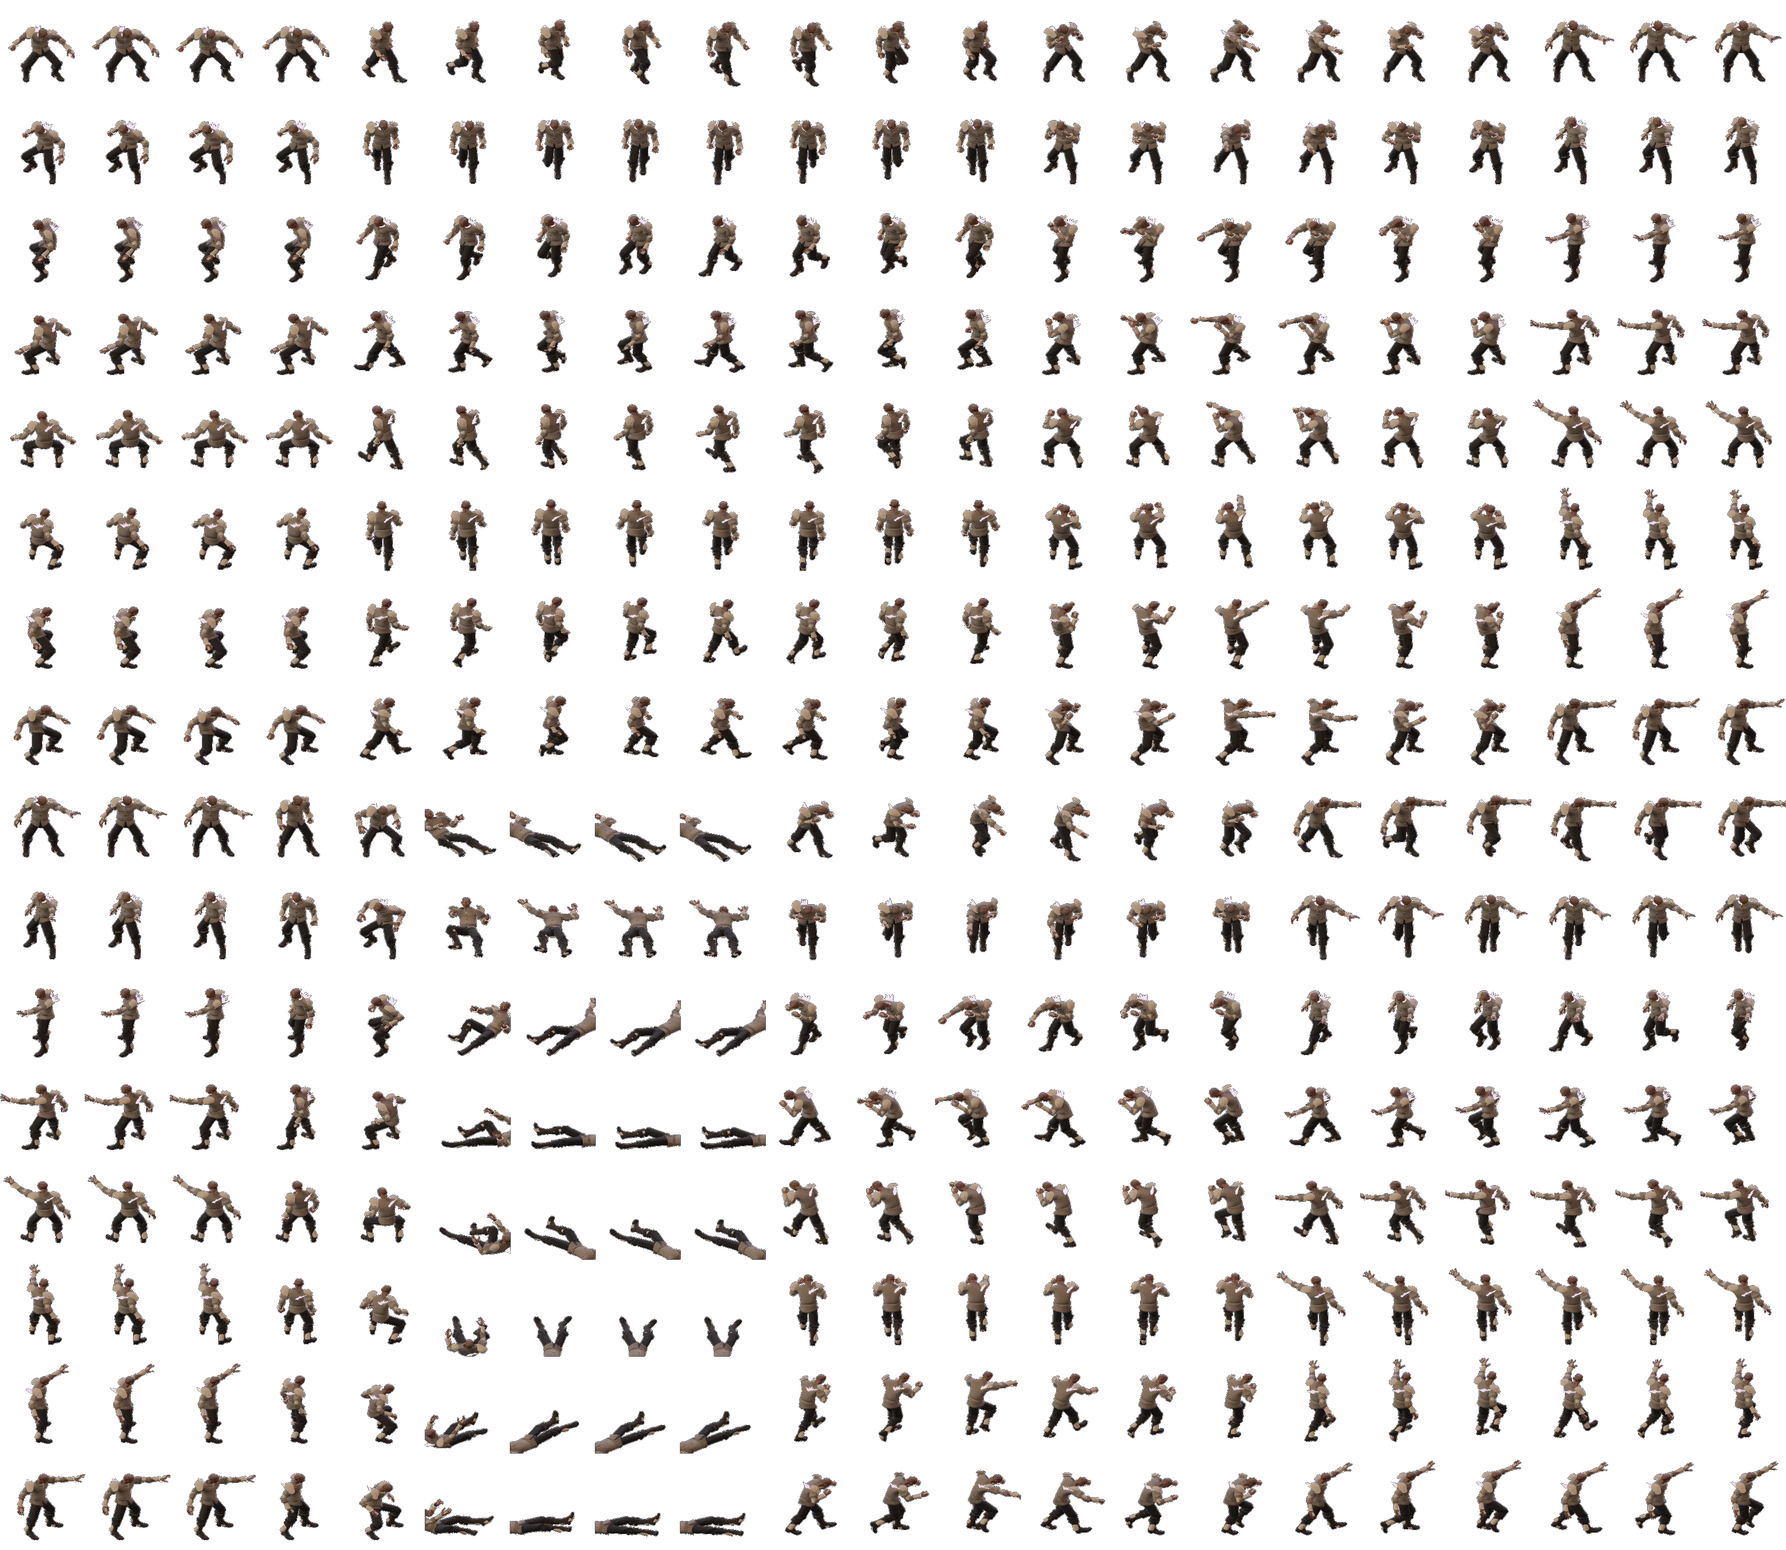
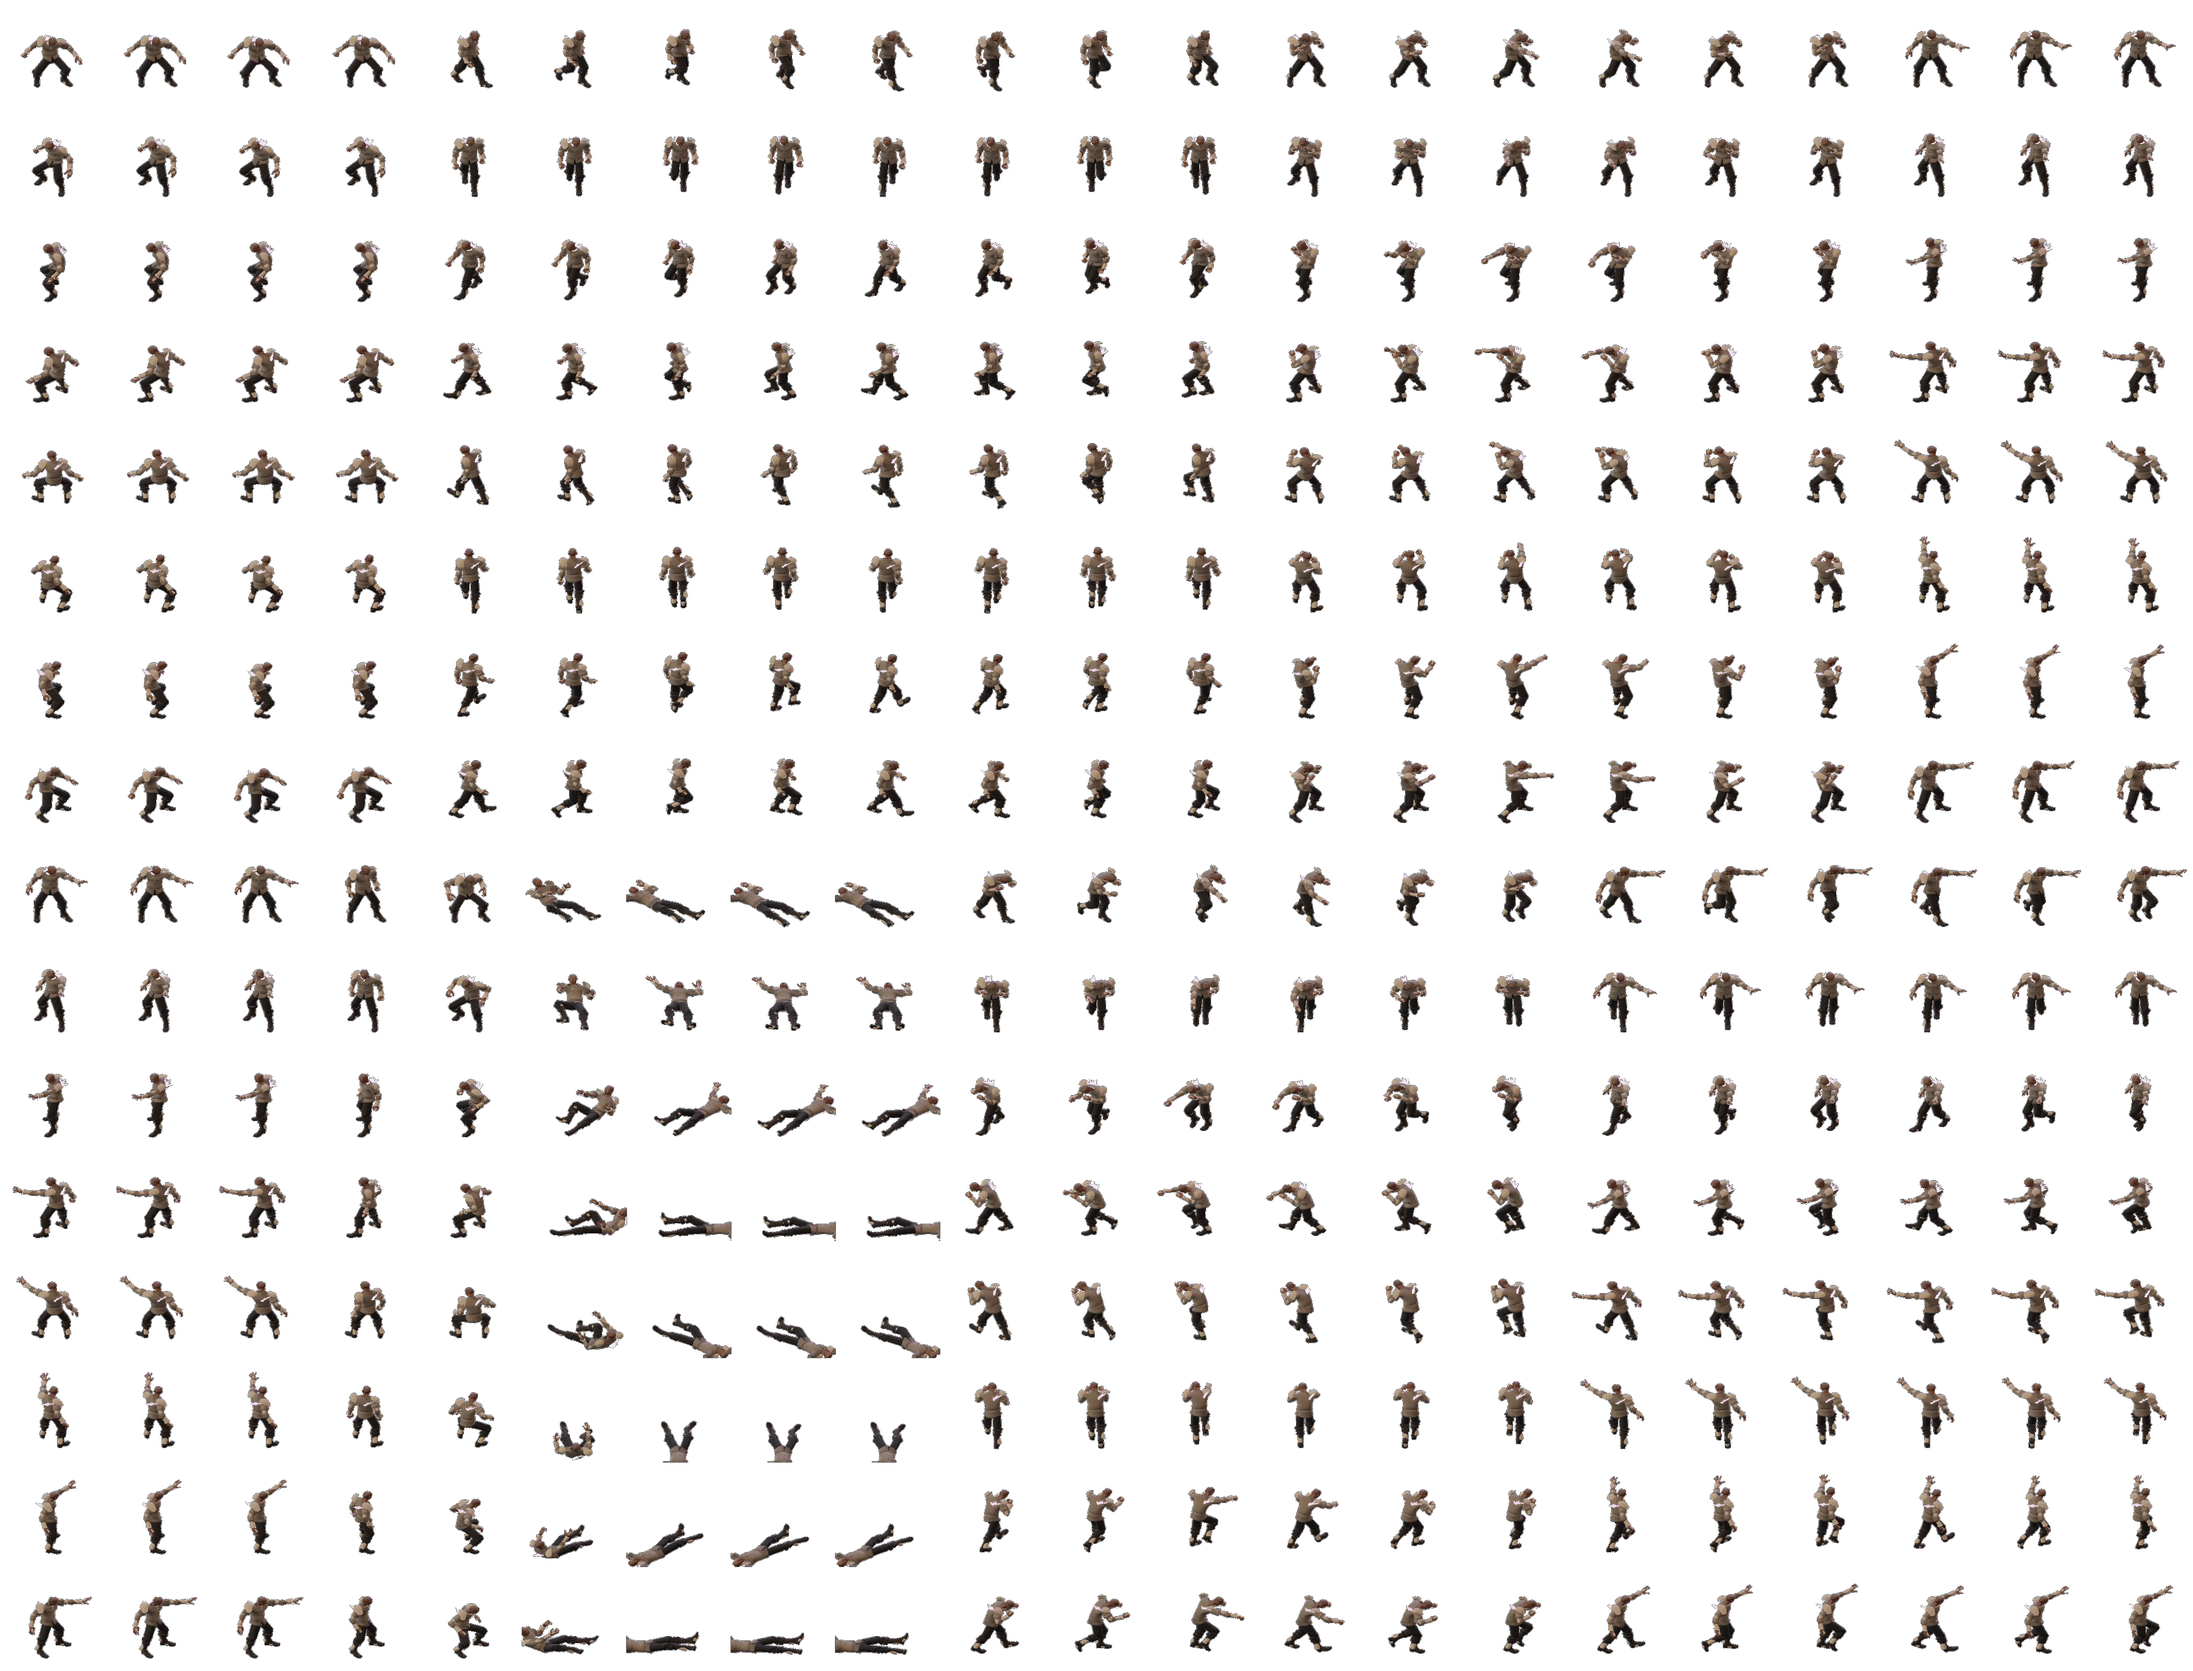
Criaturas de Filo: quadros sem corte, atlas até 4096 px e o monstruário leve (marco 45, D-181)
- Quadros maiores para os dragões, a Mãe-Colmeia, o Enxame e os humanoides de cajado ou lâmina compridos, que
  saíam pelas bordas nos golpes; o atlas dos inimigos baixa os pixels por célula para não passar de 4096 px.
- O monstruário só carrega o desenho das criaturas já vistas (a silhueta não pede atlas).
- O teste dos dragões segue os atlas novos; sem a seta no comentário do kit (teste sem emoji).

diff --git a/src/render/vivos/filo/humanos.ts b/src/render/vivos/filo/humanos.ts
@@ -28,50 +28,53 @@ export interface HumanoDeFilo {
 
 const GRANDE = { largura: 1.9, altura: 2.2, baixo: 0.45 };
 const ALTO = { largura: 2.2, altura: 2.5, baixo: 0.5 };
+/** 16/11/2026: os de cajado ou lâmina compridos, que saíam pelas bordas do quadro nos golpes. */
+const LARGO = { largura: 2.6, altura: 2.5, baixo: 0.5 };
+const ENORME = { largura: 2.9, altura: 2.9, baixo: 0.6 };
 
 export const HUMANOS_FILO: Readonly<Record<string, HumanoDeFilo>> = {
   // Ignárea
   fagulheiro: { traje: 'campones_m', altura: 0.82, pele: 0x7a3a22, roupa: 0x5a4434, emissao: 1.2, jeito: 'espada', veste: A.fagulheiro },
   vidraceiro: { traje: 'campones_m', altura: 1.02, largura: 0.85, pele: 0xc8a890, roupa: 0x6a5038, jeito: 'magia', veste: A.vidraceiro },
-  fornalheiro: { traje: 'campones_m', altura: 1.32, largura: 1.35, pele: 0x5a3a2a, roupa: 0x3a2a20, jeito: 'espada', veste: A.fornalheiro, quadro: GRANDE },
-  rei_das_fagulhas: { traje: 'campones_m', altura: 1, largura: 1.1, pele: 0x7a3a22, roupa: 0x4a3a28, emissao: 1.4, jeito: 'espada', veste: A.reiDasFagulhas },
+  fornalheiro: { traje: 'campones_m', altura: 1.32, largura: 1.35, pele: 0x5a3a2a, roupa: 0x3a2a20, jeito: 'espada', veste: A.fornalheiro, quadro: LARGO },
+  rei_das_fagulhas: { traje: 'campones_m', altura: 1, largura: 1.1, pele: 0x7a3a22, roupa: 0x4a3a28, emissao: 1.4, jeito: 'espada', veste: A.reiDasFagulhas, quadro: LARGO },
   // Hiemália
-  quebra_gelo: { traje: 'campones_m', altura: 1.3, largura: 1.3, pele: 0x8a9aa8, roupa: 0x4a4a52, jeito: 'espada', veste: A.quebraGelo, quadro: GRANDE },
+  quebra_gelo: { traje: 'campones_m', altura: 1.3, largura: 1.3, pele: 0x8a9aa8, roupa: 0x4a4a52, jeito: 'espada', veste: A.quebraGelo, quadro: LARGO },
   silente: { traje: 'ranger_f', altura: 1.25, largura: 0.85, pele: 0xd0dce6, roupa: 0xc8d4de, jeito: 'magia', veste: A.silente },
   escultor_de_geada: { traje: 'campones_m', altura: 1.08, pele: 0xb8c8d4, roupa: 0x5a6470, jeito: 'espada', veste: A.escultorDeGeada },
-  imperatriz_das_estatuas: { traje: 'ranger_f', altura: 1.25, pele: 0xe0e8f0, roupa: 0xdfe8f0, jeito: 'magia', veste: A.imperatrizDasEstatuas },
+  imperatriz_das_estatuas: { traje: 'ranger_f', altura: 1.25, pele: 0xe0e8f0, roupa: 0xdfe8f0, jeito: 'magia', veste: A.imperatrizDasEstatuas, quadro: LARGO },
   // Fulgúria
   saltafaisca: { traje: 'campones_m', altura: 0.75, pele: 0x8a8a5a, roupa: 0x4a4a3a, jeito: 'soco', veste: A.saltafaisca },
   para_raios: { traje: 'ranger_m', altura: 1.3, largura: 1.2, pele: 0x6a5a4a, roupa: 0x3a3430, jeito: 'espada', veste: A.paraRaios, quadro: GRANDE },
-  maquinista_voltaico: { traje: 'ranger_m', altura: 1.15, pele: 0xb89a80, roupa: 0x3a2e24, jeito: 'magia', veste: A.maquinistaVoltaico },
+  maquinista_voltaico: { traje: 'ranger_m', altura: 1.15, pele: 0xb89a80, roupa: 0x3a2e24, jeito: 'magia', veste: A.maquinistaVoltaico, quadro: LARGO },
   // Putrévia
   bebedor: { traje: 'ranger_m', altura: 1.16, largura: 0.9, pele: 0x8a9a7a, roupa: 0x2a2e22, jeito: 'zumbi', veste: B.bebedor },
   esporeiro: { traje: 'campones_m', altura: 1, pele: 0x9a8a6a, roupa: 0x4a4a30, jeito: 'magia', veste: B.esporeiro },
   // Umbrália
   arqueiro_de_osso: { traje: 'ranger_m', altura: 1.1, largura: 0.9, pele: 0xd8cfb4, roupa: 0x1e1a24, jeito: 'arco', veste: B.arqueiroDeOsso },
-  o_apagador: { traje: 'ranger_m', altura: 1.5, pele: 0x1a1820, roupa: 0x100e14, jeito: 'espada', veste: B.oApagador, quadro: ALTO },
+  o_apagador: { traje: 'ranger_m', altura: 1.5, pele: 0x1a1820, roupa: 0x100e14, jeito: 'espada', veste: B.oApagador, quadro: ENORME },
   sombra_roubada: { traje: 'ranger_m', altura: 1.12, pele: 0x050407, roupa: 0x050407, jeito: 'zumbi', veste: B.sombraRoubada },
   // Oníria
   riscador: { traje: 'campones_m', altura: 0.95, pele: 0xc8b8a8, roupa: 0x3a2e4a, jeito: 'magia', veste: B.riscador },
   espelhante: { traje: 'ranger_f', altura: 1.05, largura: 0.85, pele: 0xf2eef4, roupa: 0xd8d0e4, jeito: 'magia', veste: B.espelhante },
   marionetista: { traje: 'ranger_m', altura: 1.12, largura: 0.9, pele: 0xe8e0e8, roupa: 0x4a3a5a, jeito: 'magia', veste: B.marionetista },
   bruxa_dos_sonhos: { traje: 'ranger_f', altura: 1.12, pele: 0xb8a8c8, roupa: 0x3a2a50, jeito: 'magia', veste: B.bruxaDosSonhos },
-  rei_das_mascaras: { traje: 'ranger_m', altura: 1.2, pele: 0x8a6a7a, roupa: 0x3a1630, jeito: 'espada', veste: B.reiDasMascaras },
+  rei_das_mascaras: { traje: 'ranger_m', altura: 1.2, pele: 0x8a6a7a, roupa: 0x3a1630, jeito: 'espada', veste: B.reiDasMascaras, quadro: LARGO },
   reflexo_do_sonho: { traje: 'ranger_f', altura: 1.1, pele: 0xd79bff, roupa: 0xd79bff, emissao: 1, jeito: 'magia', veste: B.reflexoDoSonho },
   // Lítia
   fundeiro: { traje: 'campones_m', altura: 1, pele: 0x8a7a62, roupa: 0x5a4632, jeito: 'arremesso', veste: C.fundeiro },
-  colosso_de_geodo: { traje: 'campones_m', altura: 1.5, largura: 1.4, pele: 0x6a5c4a, roupa: 0x4a4034, jeito: 'soco', veste: C.colossoDeGeodo, quadro: ALTO },
-  monarca_de_geodo: { traje: 'ranger_m', altura: 1.3, largura: 1.2, pele: 0x5a4c3a, roupa: 0x3a3028, jeito: 'espada', veste: C.monarcaDeGeodo, quadro: GRANDE },
+  colosso_de_geodo: { traje: 'campones_m', altura: 1.5, largura: 1.4, pele: 0x6a5c4a, roupa: 0x4a4034, jeito: 'soco', veste: C.colossoDeGeodo, quadro: ENORME },
+  monarca_de_geodo: { traje: 'ranger_m', altura: 1.3, largura: 1.2, pele: 0x5a4c3a, roupa: 0x3a3028, jeito: 'espada', veste: C.monarcaDeGeodo, quadro: LARGO },
   // Halônia
   pregador: { traje: 'campones_m', altura: 1.1, pele: 0xd8c0a8, roupa: 0xe8e0d0, jeito: 'magia', veste: C.pregador },
   penitente: { traje: 'campones_m', altura: 1.08, pele: 0xb89a80, roupa: 0x5a4a3a, jeito: 'espada', veste: C.penitente },
-  guardiao_de_marmore: { traje: 'ranger_m', altura: 1.3, largura: 1.15, pele: 0xe6e0d6, roupa: 0xe6e0d6, jeito: 'espada', veste: C.guardiaoDeMarmore, quadro: GRANDE },
+  guardiao_de_marmore: { traje: 'ranger_m', altura: 1.3, largura: 1.15, pele: 0xe6e0d6, roupa: 0xe6e0d6, jeito: 'espada', veste: C.guardiaoDeMarmore, quadro: ENORME },
   arauto_caido: { traje: 'nu_m', altura: 1.4, largura: 1.15, pele: 0x2a1c1c, roupa: 0x2a1c1c, jeito: 'soco', veste: C.arautoCaido, quadro: ALTO },
-  hierofante: { traje: 'campones_m', altura: 1.3, pele: 0xd8c0a8, roupa: 0xe8e0d0, jeito: 'magia', veste: C.hierofante, quadro: GRANDE },
+  hierofante: { traje: 'campones_m', altura: 1.3, pele: 0xd8c0a8, roupa: 0xe8e0d0, jeito: 'magia', veste: C.hierofante, quadro: ENORME },
   // Zefíria
   velejador: { traje: 'ranger_m', altura: 1.08, pele: 0xc8b8a8, roupa: 0x6a8294, jeito: 'arco', veste: C.velejador, quadro: GRANDE },
   ciclonista: { traje: 'campones_m', altura: 1.05, pele: 0xc8b8a8, roupa: 0xd8e6f0, jeito: 'magia', veste: C.ciclonista },
-  almirante_dos_ventos: { traje: 'ranger_m', altura: 1.2, pele: 0xc8a890, roupa: 0x2a3a50, jeito: 'espada', veste: C.almiranteDosVentos },
+  almirante_dos_ventos: { traje: 'ranger_m', altura: 1.2, pele: 0xc8a890, roupa: 0x2a3a50, jeito: 'espada', veste: C.almiranteDosVentos, quadro: LARGO },
   harpia_soberana: { traje: 'ranger_f', altura: 1.2, pele: 0xb8a8a0, roupa: 0x5a6a78, jeito: 'magia', veste: C.harpiaSoberana, quadro: ALTO },
 };
 

diff --git a/tools/sprites/receitas.ts b/tools/sprites/receitas.ts
@@ -375,6 +375,15 @@ const DO_JEITO: Readonly<Record<Jeito, Record<EstadoBase, string>>> = {
   arco: { ...HUMANO, golpe: 'ual1:Pistol_Shoot' },
   arremesso: { ...HUMANO, golpe: 'ual2:OverhandThrow' },
 };
+/**
+ * Marco 45 (16/11/2026, D-181): o atlas dos inimigos não passa de 4096 px de lado (o limite de textura de muitos
+ * celulares); os quadros grandes (dragões, Mãe-Colmeia, os enormes) baixam os pixels por célula para caber.
+ */
+const pxQueCabe = (q?: { largura: number; altura: number }): { pxCelula: number } | object => {
+  if (!q) return {};
+  const px = Math.min(72, Math.floor(4096 / (21 * q.largura)), Math.floor(4096 / (16 * q.altura)));
+  return px < 72 ? { pxCelula: px } : {};
+};
 for (const [nome, h] of Object.entries(HUMANOS_FILO)) {
   const t = TRAJES[h.traje];
   RECEITAS.push({
@@ -382,12 +391,12 @@ for (const [nome, h] of Object.entries(HUMANOS_FILO)) {
     sombrio: true, semCapuz: true,
     cores: { Ranger: h.roupa, Peasant: h.roupa, Superhero: h.pele, Regular: h.pele, Hair: 0x1a1a1a },
     ...(h.emissao ? { emissao: { Eye: h.emissao } } : {}),
-    animacoes: DO_JEITO[h.jeito], ...(h.quadro ? { quadro: h.quadro } : {}),
+    animacoes: DO_JEITO[h.jeito], ...(h.quadro ? { quadro: h.quadro } : {}), ...pxQueCabe(h.quadro),
   });
 }
 // O Necromante Ancestral (governante de Umbrália): o kit do necromante no grau 5 com a coroa de osso (chefes-vivos.ts).
 RECEITAS.push({ nome: 'necromante_ancestral', veste: 'necromante_ancestral', corpo: RANGER_M, cabeca: CABECA_M, altura: 1.2, sombrio: true, semCapuz: true,
   cores: { Ranger: 0x3e3446, Superhero: 0xc4c0c8, Regular: 0xc4c0c8, Hair: 0x9c96a4 }, animacoes: MAGIA });
 for (const [nome, c] of Object.entries(PROCS_FILO)) {
-  RECEITAS.push({ nome, corpo: `proc:${nome}`, altura: c.altura, animacoes: null, exposicao: 1.5, ...(c.quadro ? { quadro: c.quadro } : {}) });
+  RECEITAS.push({ nome, corpo: `proc:${nome}`, altura: c.altura, animacoes: null, exposicao: 1.5, ...(c.quadro ? { quadro: c.quadro } : {}), ...pxQueCabe(c.quadro) });
 }

diff --git a/src/render/vivos/filo/index.ts b/src/render/vivos/filo/index.ts
@@ -16,7 +16,7 @@ export interface ProcDeFilo {
   quadro?: { largura: number; altura: number; baixo: number };
 }
 
-const DRAGAO = { largura: 5.2, altura: 4.2, baixo: 1.6 };
+const DRAGAO = { largura: 5.2, altura: 4.8, baixo: 1.9 };
 const p = (criar: () => Fera, altura: number, quadro?: ProcDeFilo['quadro']): ProcDeFilo => (quadro ? { criar, altura, quadro } : { criar, altura });
 
 export const PROCS_FILO: Readonly<Record<string, ProcDeFilo>> = {
@@ -29,8 +29,8 @@ export const PROCS_FILO: Readonly<Record<string, ProcDeFilo>> = {
   zunzum: p(zunzum, 0.62),
   bobinadora: p(bobinadora, 0.6, { largura: 1.9, altura: 1.5, baixo: 0.5 }),
   tecela_do_vazio: p(tecelaDoVazio, 0.7, { largura: 2, altura: 1.6, baixo: 0.55 }),
-  enxame_putrido: p(enxamePutrido, 0.95, { largura: 1.8, altura: 1.8, baixo: 0.5 }),
-  mae_colmeia: p(maeColmeia, 1.6, { largura: 3.4, altura: 3, baixo: 1.1 }),
+  enxame_putrido: p(enxamePutrido, 0.95, { largura: 2.6, altura: 2.6, baixo: 0.8 }),
+  mae_colmeia: p(maeColmeia, 1.6, { largura: 4, altura: 3.6, baixo: 1.3 }),
   faminto: p(faminto, 0.85, { largura: 1.9, altura: 1.7, baixo: 0.5 }),
   pedrico: p(pedrico, 0.45),
   galgo_do_vendaval: p(galgoDoVendaval, 0.85, { largura: 1.9, altura: 1.7, baixo: 0.5 }),
